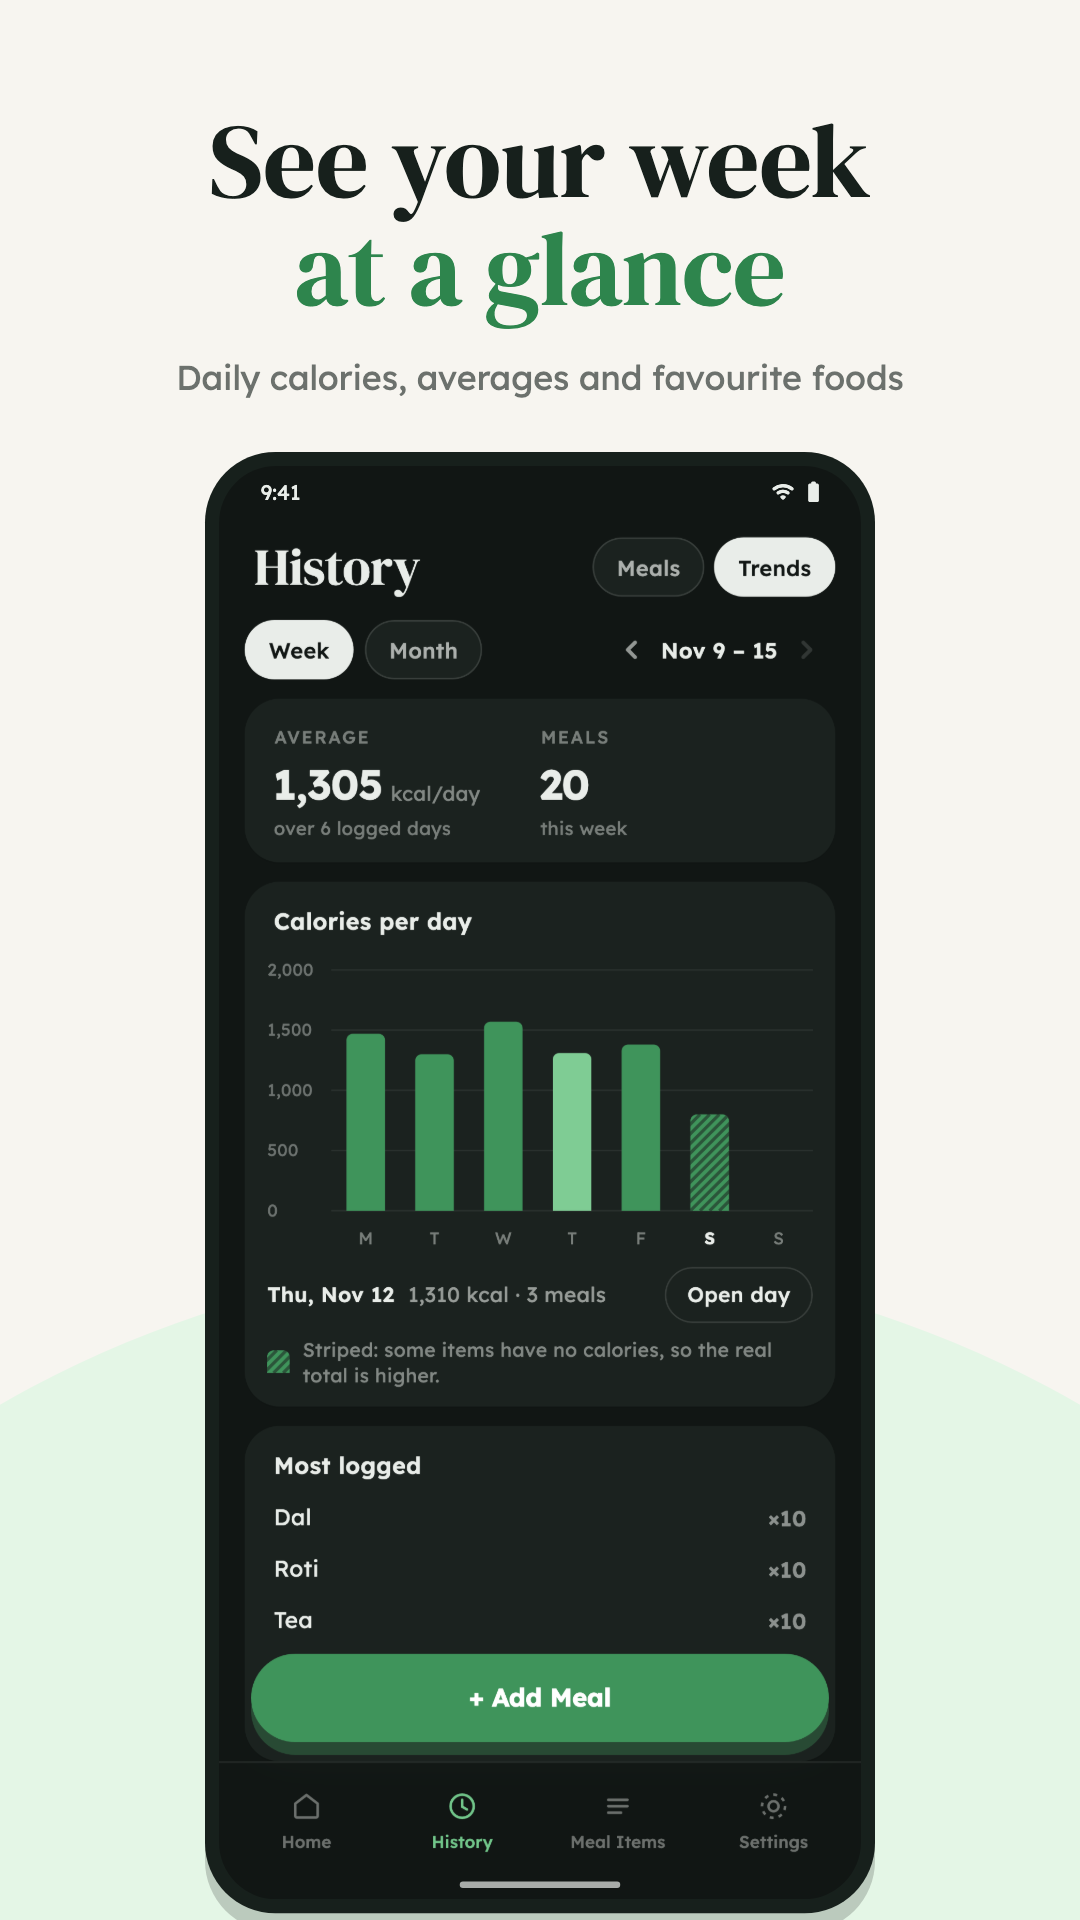
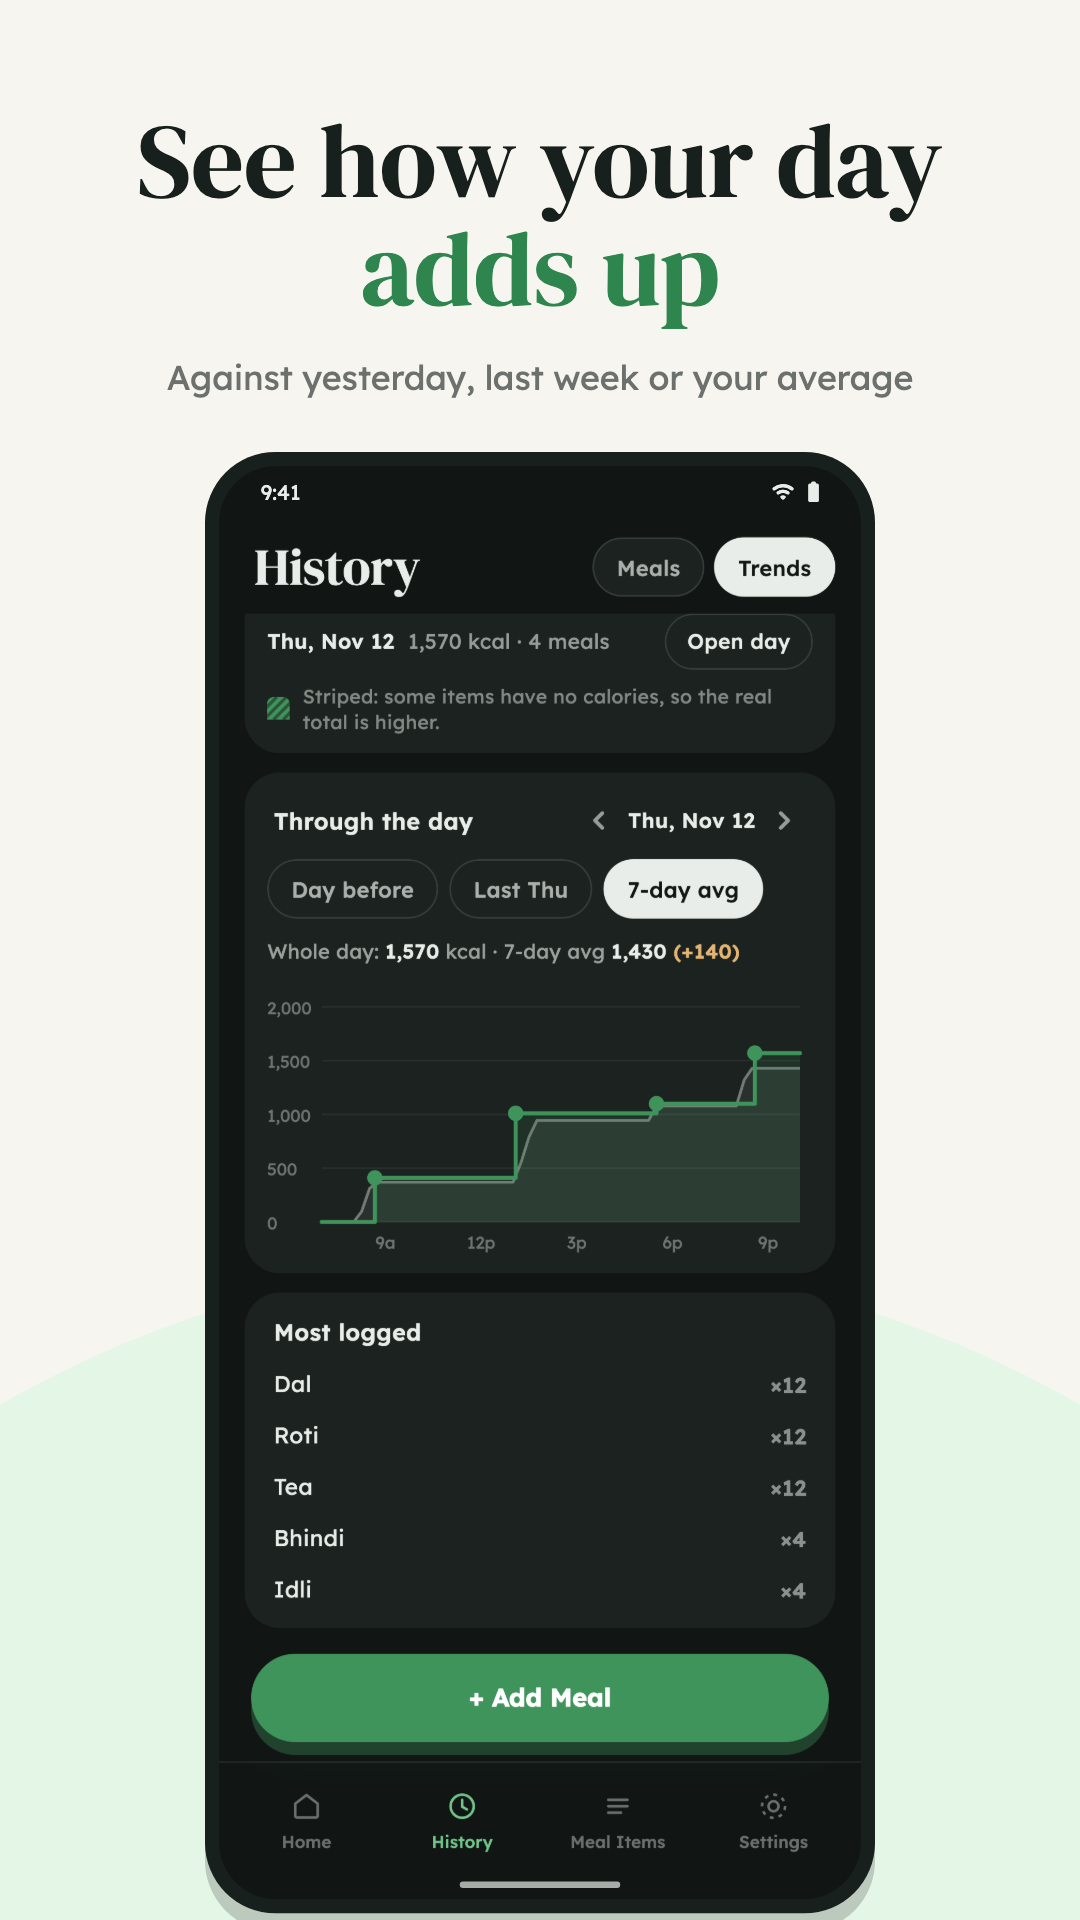
Release 1.1.1: calories through the day, and a Meals widget
History › Trends shows how each day's calories add up, meal by meal,
against the day before, the same weekday last week or the 7-day
average. A new Meals home-screen widget lists today's meals and foods;
the Today widget shows meal and item counts, and both roll over at
midnight and after a restart.

Bump to 1.1.1+4 with Play release notes (changelogs/4.txt). Store
listing, README and screenshots updated; the Trends screenshot now
features the new card.

diff --git a/tool/store_screenshots/store_screenshots_test.dart b/tool/store_screenshots/store_screenshots_test.dart
@@ -619,15 +619,24 @@ void main() {
               w.key is ValueKey<String> &&
               (w.key! as ValueKey<String>).value.startsWith('bar-'),
         );
+        // Tapping a bar also loads that day into Through the day.
         await tap(tester, bars.at(bars.evaluate().length ~/ 2));
+        await tap(tester, find.text('7-day avg'));
+        // The whole Through the day card, under the tapped day's summary.
+        await tester.ensureVisible(
+          find.byKey(const ValueKey('day-curve-plot')),
+        );
+        await tester.pumpAndSettle();
+        await tester.drag(find.byType(ListView).last, const Offset(0, -60));
+        await tester.pumpAndSettle();
       },
     );
     await _write(
       tester,
       _Shot(
-        line1: 'See your week',
-        line2: 'at a glance',
-        subtitle: 'Daily calories, averages and favourite foods',
+        line1: 'See how your day',
+        line2: 'adds up',
+        subtitle: 'Against yesterday, last week or your average',
         screen: trends,
         dark: true,
       ),

diff --git a/lib/version.dart b/lib/version.dart
@@ -1,6 +1,6 @@
 /// The app's version, as in `pubspec.yaml` (`test/version_test.dart`
 /// fails if the two drift apart).
-const appVersion = '1.1.0';
+const appVersion = '1.1.1';
 
 /// The build number: the `+N` in `pubspec.yaml`.
-const appBuild = 3;
+const appBuild = 4;

diff --git a/README.md b/README.md
@@ -26,7 +26,7 @@ Website and privacy policy: <https://helpings.mihirsolanki.in>
 <p align="center">
   <img src="docs/readme/screens/1_home.png" width="200" alt="Home: today's calories and meals">
   <img src="docs/readme/screens/2_add.png" width="200" alt="Add a meal with combos">
-  <img src="docs/readme/screens/3_trends.png" width="200" alt="Weekly trends">
+  <img src="docs/readme/screens/3_trends.png" width="200" alt="Trends: calories through the day against your 7-day average">
   <img src="docs/readme/screens/7_items.png" width="200" alt="Your food list">
   <img src="docs/readme/screens/8_ask_ai.png" width="200" alt="Ask an AI to build your food list or fill in missing calories">
 </p>
@@ -46,6 +46,10 @@ Website and privacy policy: <https://helpings.mihirsolanki.in>
 - History groups meals by day with daily totals, filtered by meal type.
 - Trends: calories per day for the week or month, the daily average, and the
   most-logged foods.
+- Through the day: the running calorie total, meal by meal, over a grey
+  comparison: the day before, the same weekday last week, or the average of
+  the last 7 logged days. A pace line compares the two at the current time;
+  tap or drag to read both at any time.
 
 **Your foods and meal types**
 - Starts with everyday foods (roti, dal, rice, idli, poha, tea…) with default
@@ -76,7 +80,9 @@ Website and privacy policy: <https://helpings.mihirsolanki.in>
 - Save a backup copy, or keep daily backups in a folder you choose (the last
   30 are kept). Restore from any backup file.
 - Export all meals as CSV, or the food list as CSV.
-- Android home-screen widget with today's calories and an Add meal button.
+- Android home-screen widgets: Today (calories, meals and items) and Meals
+  (today's meals with their foods, and an Add meal button). Both roll over to
+  the new day at midnight and after a restart.
 - Light, dark, or follow the system.
 
 ## Platforms
